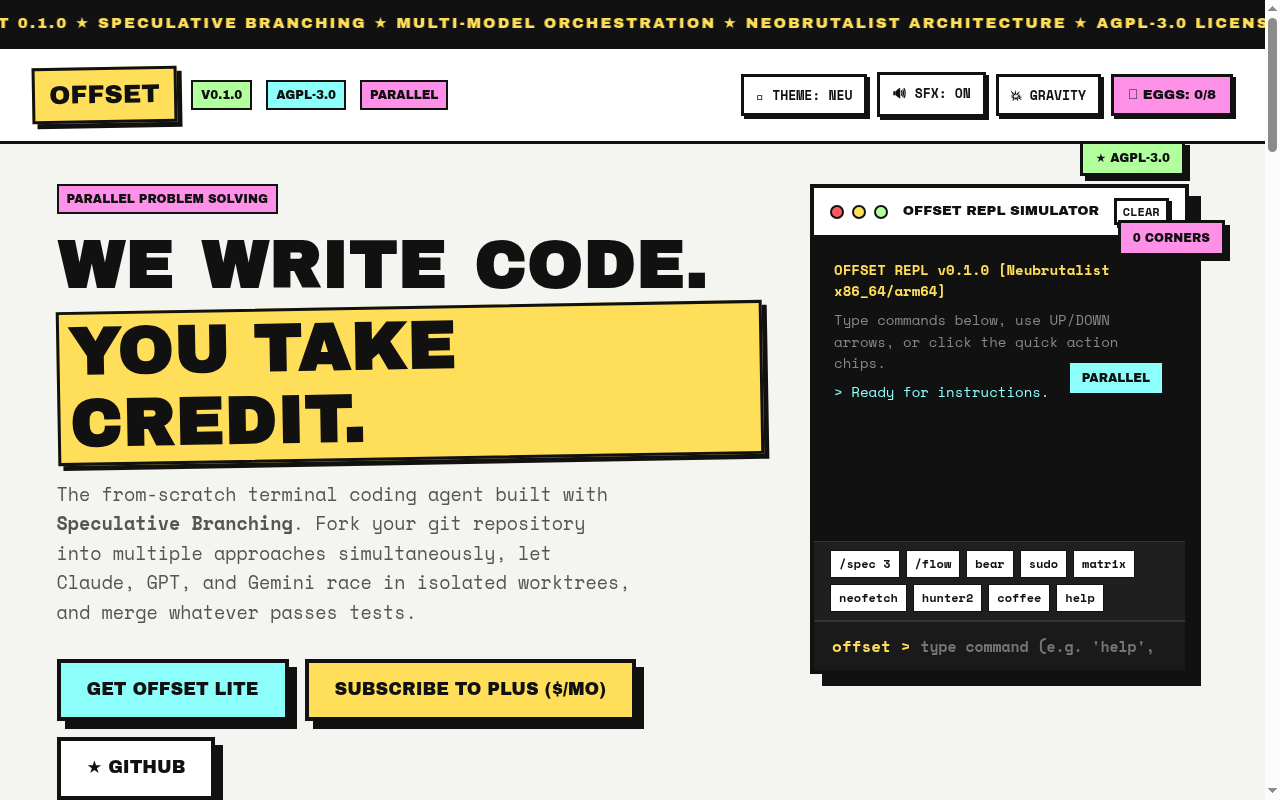
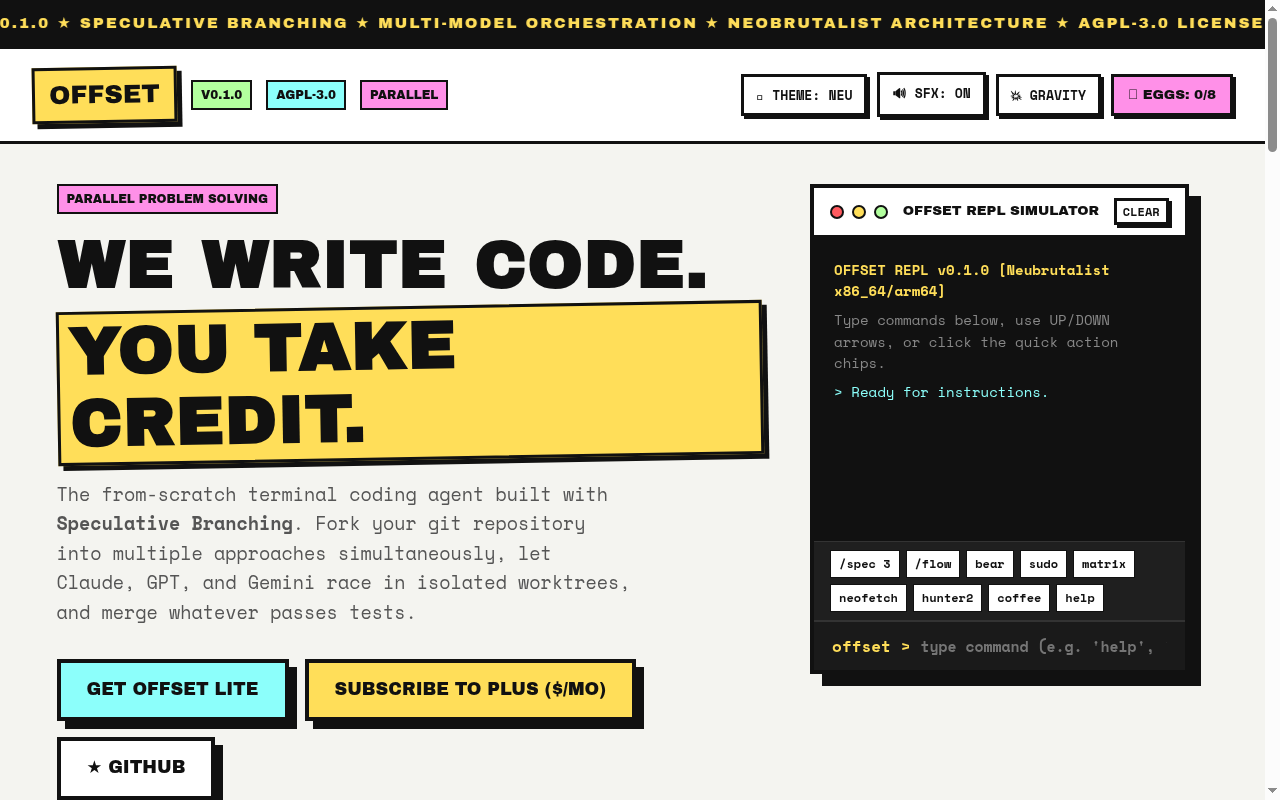
fix: remove scattered floating stickers and update clean hero screenshot

Changed region(s): [[0.0, 0.0, 1.0, 0.0625], [0.8438, 0.1562, 0.9688, 0.3438], [0.8125, 0.4375, 0.9062, 0.5]]

diff --git a/docs/index.html b/docs/index.html
@@ -283,24 +283,6 @@
             transform: scale(1.05);
         }
 
-        /* Draggable Sticker Badge */
-        .draggable-sticker {
-            position: absolute;
-            background: var(--yellow);
-            border: var(--border);
-            padding: 6px 12px;
-            font-family: 'Archivo Black', sans-serif;
-            font-size: 0.75rem;
-            box-shadow: var(--shadow);
-            cursor: grab;
-            user-select: none;
-            z-index: 50;
-            touch-action: none;
-        }
-        .draggable-sticker:active {
-            cursor: grabbing;
-            transform: scale(1.1);
-        }
 
         /* Layout Container */
         .container {
@@ -986,11 +968,6 @@
     <canvas id="particle-canvas"></canvas>
     <canvas id="matrix-canvas"></canvas>
 
-    <!-- Draggable Floating Neubrutalist Stickers -->
-    <div class="draggable-sticker" style="top: 140px; right: 80px; background: var(--mint);" id="sticker-1">★ AGPL-3.0</div>
-    <div class="draggable-sticker" style="top: 220px; right: 40px; background: var(--pink);" id="sticker-2">0 CORNERS</div>
-    <div class="draggable-sticker" style="top: 360px; right: 100px; background: var(--cyan);" id="sticker-3">PARALLEL</div>
-
     <!-- Top Marquee Ticker -->
     <div class="marquee-container" id="marquee-header" title="Click to change announcement!">
         <div class="marquee-track" id="marquee-text">
@@ -1418,30 +1395,6 @@
         }
         updateParticles();
 
-        // --- Draggable Neubrutalist Stickers ---
-        function makeDraggable(el) {
-            let isDragging = false, startX, startY, origX, origY;
-            el.addEventListener('pointerdown', (e) => {
-                isDragging = true;
-                el.setPointerCapture(e.pointerId);
-                startX = e.clientX;
-                startY = e.clientY;
-                origX = el.offsetLeft;
-                origY = el.offsetTop;
-                playBeep(480, 'triangle', 0.05);
-            });
-            el.addEventListener('pointermove', (e) => {
-                if (!isDragging) return;
-                el.style.left = (origX + e.clientX - startX) + 'px';
-                el.style.top = (origY + e.clientY - startY) + 'px';
-                el.style.right = 'auto';
-            });
-            el.addEventListener('pointerup', () => {
-                isDragging = false;
-                playBeep(320, 'triangle', 0.05);
-            });
-        }
-        document.querySelectorAll('.draggable-sticker').forEach(makeDraggable);
 
         // --- Theme Engine ---
         const themes = ['default', 'matrix', 'cyberpunk', 'invert', 'party'];
